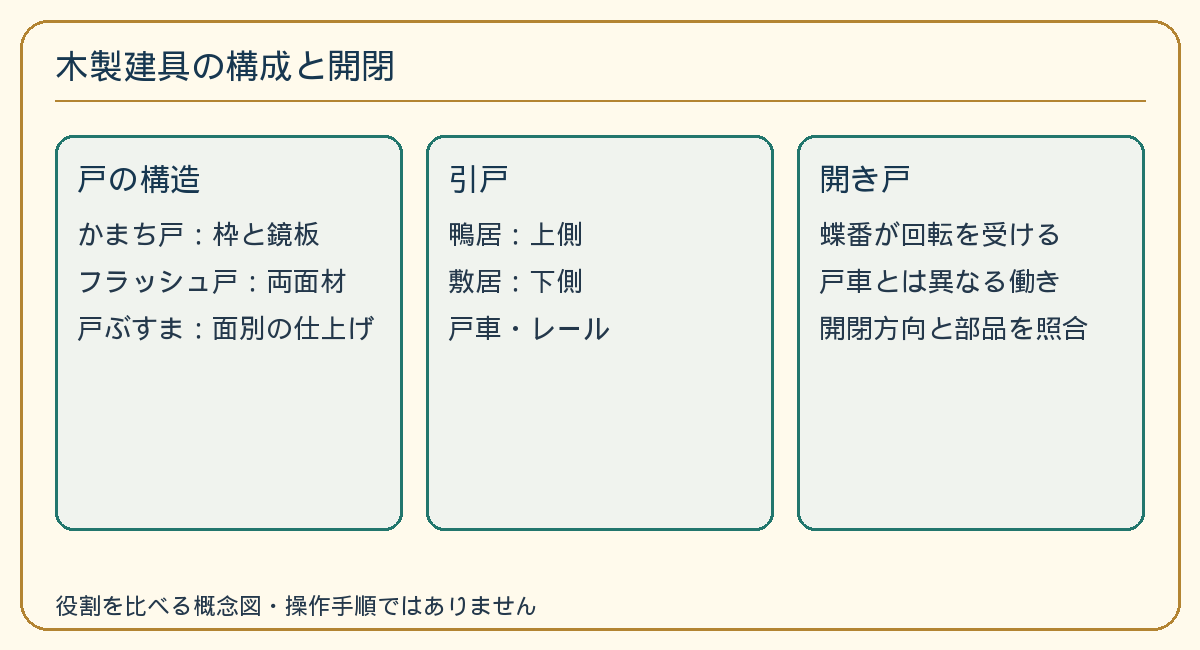
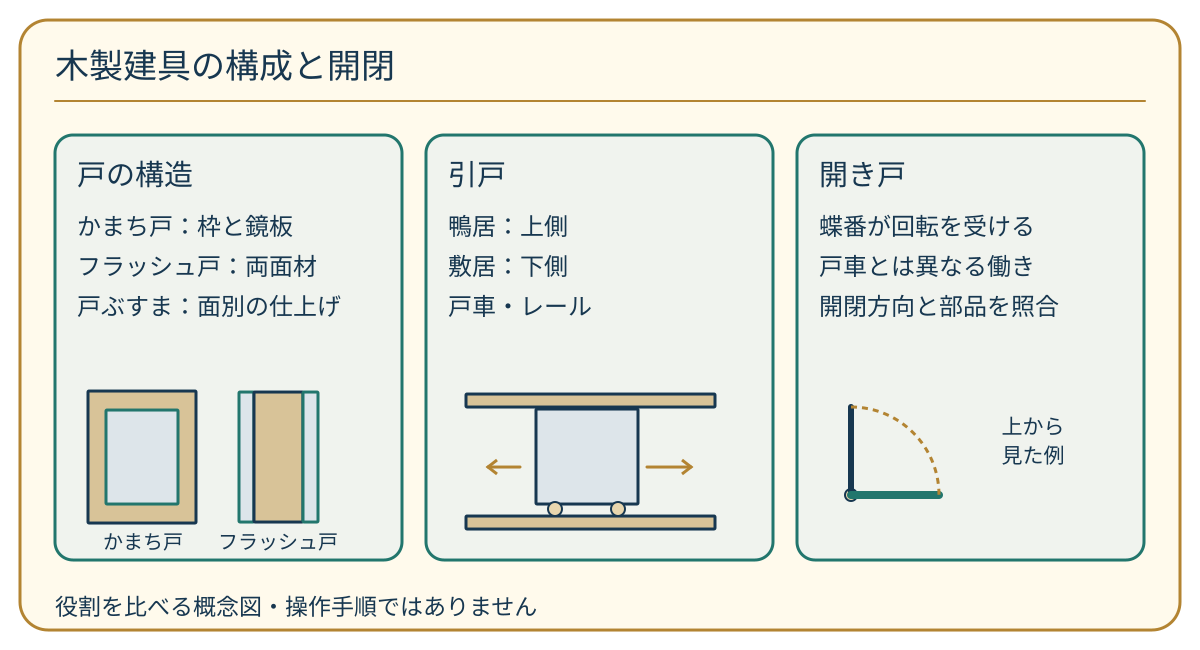
fix(kensetsu): illustrate door joints stone attachment and tile relationships

diff --git a/scripts/kensetsu-authoring/draw-royal-differential-group09.py b/scripts/kensetsu-authoring/draw-royal-differential-group09.py
@@ -1,0 +1,38 @@
+"""Source-bound door, waterproofing/stone and tile relation sections."""
+from pathlib import Path
+base=Path(__file__).with_name('draw-royal-differential-group05.py').read_text().split('# Material handling')[0]
+exec(base.replace('range(15,23)','[27,28,29]').replace('assert len(spec)==8','assert len(spec)==3'))
+OUT=ROOT/'docs/ssw-workspace/kensetsu/royal-differential-20261107/group09'
+OUT.mkdir(parents=True,exist_ok=True)
+
+# Framed/panel door face and flush door edge section; horizontal motion vs hinge.
+b=rect(88,391,108,132,'#D8C398',NAVY,1)+rect(106,410,72,94,'#DDE5EA',TEAL,1)
+b+=rect(239,392,15,130,'#DDE5EA',TEAL,1)+rect(254,392,49,130,'#D8C398',NAVY,1)+rect(303,392,15,130,'#DDE5EA',TEAL,1)
+b+=text(143,549,'かまち戸',20,'middle')+text(278,549,'フラッシュ戸',20,'middle')
+b+=rect(466,394,249,13,'#D8C398',NAVY,1)+rect(466,516,249,13,'#D8C398',NAVY,1)+rect(536,409,102,95,'#DDE5EA',NAVY,1)
+for x in [555,618]:b+=circle(x,509,7,'#E8D6AE',NAVY,2)
+b+=line(488,467,520,467,GOLD,3)+line(647,467,691,467,GOLD,3)
+b+='<path d="M497 460 L488 467 L497 474 M682 460 L691 467 L682 474" fill="none" stroke="#B38432" stroke-width="3"/>'
+b+=circle(851,495,6,'#E8D6AE',NAVY,2)+line(851,495,851,407,NAVY,6)+line(851,495,939,495,TEAL,8)
+b+='<path d="M851 407 A88 88 0 0 1 939 495" fill="none" stroke="#B38432" stroke-width="3" stroke-dasharray="6 5"/>'
+b+=text(1033,434,'上から',21,'middle')+text(1033,463,'見た例',21,'middle')
+sheet(27,b)
+
+# Fixing disc and sheet overlap are separate contact locations, not a fixing plan.
+b=rect(101,484,419,37,'#D8C398',NAVY,1)+line(101,468,340,468,TEAL,9)+line(298,459,520,459,TEAL,9)
+b+=rect(165,473,47,11,'#E8D6AE',NAVY,1)+line(188,479,188,509,GOLD,4)
+b+=text(188,550,'固定部',21,'middle')+text(384,550,'シート接合部',21,'middle')
+b= b+rect(672,406,35,113,'#D8C398',NAVY,1)+rect(707,406,42,113,'#BBA482',NAVY,1)+rect(749,406,38,113,'#DDE5EA',NAVY,1)
+b+=rect(941,406,35,113,'#D8C398',NAVY,1)+rect(1030,406,38,113,'#DDE5EA',NAVY,1)
+b+='<path d="M962 441 H1048 V458 M962 489 H1048 V475" fill="none" stroke="#B38432" stroke-width="6"/>'
+b+=text(731,550,'湿式の断面例',21,'middle')+text(1007,550,'乾式の断面例',21,'middle')
+sheet(28,b)
+
+# Tile underside relief meets bedding material; timeline is a permitted interval.
+b=rect(105,480,408,43,'#D8C398',NAVY,1)+rect(105,450,408,30,'#E8D6AE',NAVY,1)
+b+='<path d="M105 404 H513 V450 H469 V465 H445 V450 H372 V465 H348 V450 H275 V465 H251 V450 H178 V465 H154 V450 H105 Z" fill="#DDE5EA" stroke="#173750" stroke-width="3"/>'
+b+=text(307,550,'タイル裏面と張付け材',22,'middle')
+b+=line(685,435,1076,435,NAVY,3)+circle(719,435,5,'#173750')+rect(719,419,278,30,'#D8E9E1',TEAL,1)
+b+=text(719,491,'塗付け',21,'middle')+text(867,395,'張付け可能な時間',23,'middle')
+b+=text(871,541,'条件は製品等で確認',23,'middle')
+sheet(29,b)
